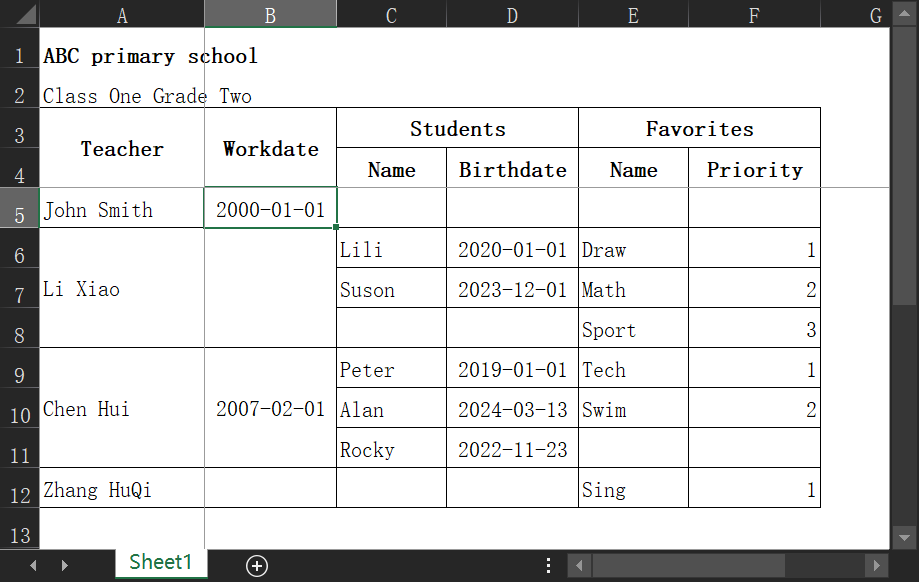
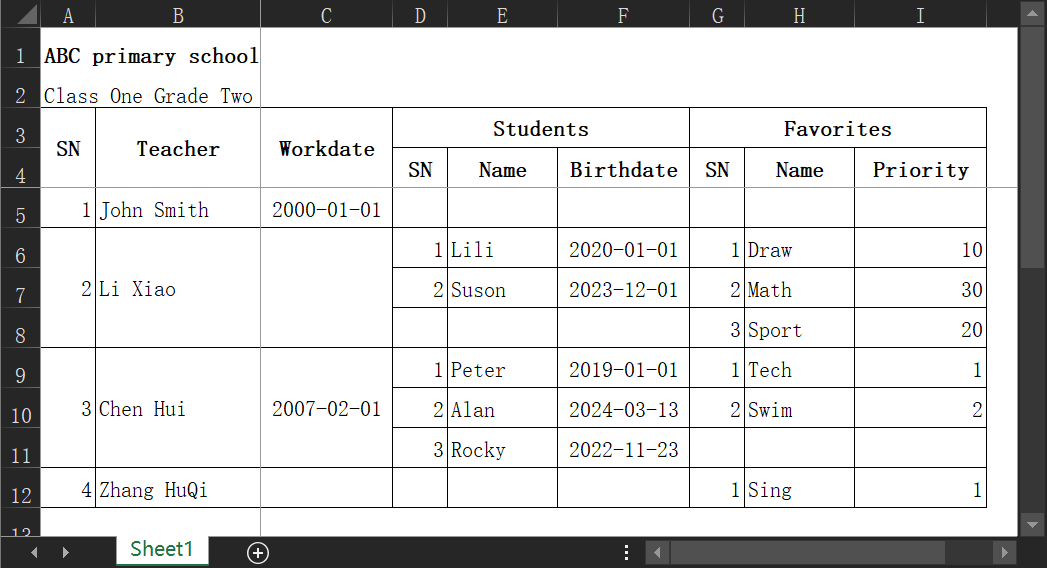
Update README

Changed region(s): [[0.0, 0.0, 1.0, 1.0], [0.6094, 0.9577, 0.6398, 0.9877]]

diff --git a/README.md b/README.md
@@ -2,13 +2,19 @@
 
 JS xlsx tools base on [ExcelJS].
 
-## Examples
+## Shows
+
+![](./assets/sample_simple_table.png)
+
+![](./assets/sample_table_with_group.png)
 
 Click [here](./assets/sample.xlsx) to download excel sample file.
 
-### Generate a simple table
+## Codes
 
-![](./assets/sample_simple_table.png)
+### Generate a simple table with print settings and frozen views
+
+![](./assets/sample_simple_table_with_print.png)
 
 ```ts
 import { genSingleSheetWorkbook } from 'https://deno.land/x/nextrj_xlsx/mod.ts'
@@ -16,9 +22,16 @@ import type { HeadColumn } from 'https://deno.land/x/nextrj_xlsx/mod.ts'
 
 // define head-column
 const headColumns: HeadColumn[] = [
+  {
+    key: 'sn',
+    label: 'SN',
+    width: 5,
+    mapper: ({ index }) => index + 1,
+    dataCellStyle: { numFmt: '#', alignment: { horizontal: 'right' } },
+  },
   { key: 'name', label: 'Name', width: 15, mapper: ({ row }) => `${row.firstName} ${row.lastName}` },
   { key: 'date', width: 12, dataCellStyle: { numFmt: 'yyyy-MM-dd', alignment: { horizontal: 'center' } } },
-  { key: 'int', label: 'Int', dataCellStyle: { numFmt: '#', alignment: { horizontal: 'right' } } },
+  { key: 'int', label: 'Int', dataCellStyle: { numFmt: '#0', alignment: { horizontal: 'right' } } },
   { key: 'decimal', label: 'Decimal', dataCellStyle: { numFmt: '#0.00', alignment: { horizontal: 'right' } } },
   {
     key: 'money',
@@ -100,7 +113,7 @@ const workbook = await genSingleSheetWorkbook({
     fitToPage: true,
     fitToWidth: 1,
     fitToHeight: 0,
-    printArea: 'A:F',
+    printArea: 'A:G',
     printTitlesRow: '2:2',
   },
 })
@@ -216,9 +229,9 @@ const workbook = await genSingleSheetWorkbook({
   sheetView: {
     showGridLines: false,
     state: 'frozen',
-    xSplit: 1,
+    xSplit: 2,
     ySplit: 4,
-    activeCell: 'B5',
+    activeCell: 'C5',
   },
 })
 
